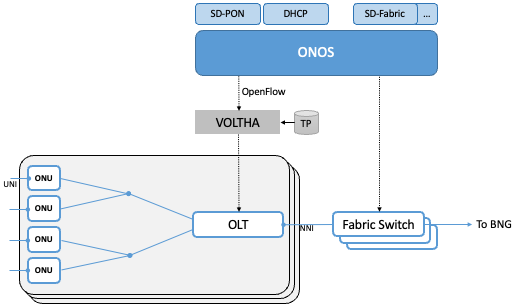
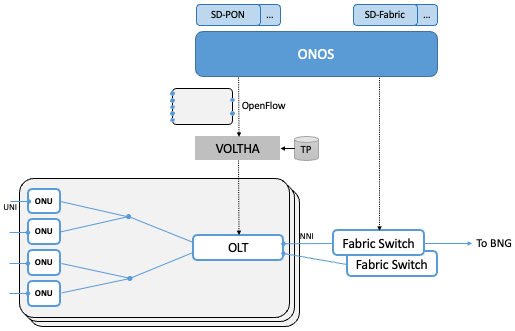
complete draft of SD-PON and SD-RAN

Changed region(s): [[0.0, 0.0, 0.9942, 0.9967], [0.7146, 0.557, 0.7456, 0.6156]]

diff --git a/access.rst b/access.rst
@@ -22,7 +22,7 @@ communication and then incrementally added support for IP-based data
 communication.  The end result is a baroque collection of
 purpose-built devices that look quite unfamiliar to anyone that
 understands how to build a network out of a collection of L2/L3
-ethernet switches.
+Ethernet switches.
 
 But this makes the access network fertile ground for SDN, and the
 introduction of disaggregation, commodity hardware, and cloud-based
@@ -49,14 +49,14 @@ anchored in these facilities.
 Passive Optical Network 
 ~~~~~~~~~~~~~~~~~~~~~~~
 
-A PON is a tree-structured network, with a single point starting in
-one of the ISP's edge sites, and then fanning out to reach up to 1024
-homes. PON gets its name from the fact that the splitters are passive:
-they forward optical signals downstream and upstream without actively
-storing-and-forwarding frames. Framing then happens at the edges, at
-the ISP’s premises in a device called an *Optical Line Terminal*
-(OLT), and at the end-points in individual homes in a device called an
-*Optical Network Unit* (ONU).
+A PON is a tree-structured, fiber-based network, with a single point
+starting in one of the ISP's edge sites, and fanning out to reach up
+to 1024 homes. PON gets its name from the fact that the splitters are
+passive: they forward optical signals downstream and upstream without
+actively storing-and-forwarding frames. Framing then happens at the
+edges, at the ISP’s premises in a device called an *Optical Line
+Terminal* (OLT), and at the end-points in individual homes in a device
+called an *Optical Network Unit* (ONU).
 
 :numref:`Figure %s <fig-pon>` shows an example PON, simplified to
 depict just one ONU and one OLT. In practice, a Central Office would
@@ -65,7 +65,8 @@ include multiple OLTs, fanning out to thousands of customer homes.
 is a *BNG (Broadband Network Gateway)* connecting the access network
 to the Internet. The BNG is a piece of Telco equipment that, in
 addition to forwarding packets, also authenticates users,
-differentiates service, and meters traffic for the sake of billing.
+differentiates the level of service delivered to each customer, and
+meters traffic for the sake of billing.
   
 .. _fig-pon:
 .. figure:: access/Slide1.png
@@ -102,14 +103,14 @@ cellular technologies range from 700-MHz to 2400-MHz, with new
 mid-spectrum allocations now happening at 6-GHz and millimeter-wave
 (mmWave) allocations opening above 24-GHz.
 
-As shown in :numref:`Figure %s <fig-ran>`, the set of base stations
-are connected to each other, and back to the Mobile Core running in
-the Central Office. The Mobile Core is like the BNG in that it is an
-IP gateway connecting the access network to the Internet, as well as
-being responsible for authentication, QoS, and billing. Unlike the
-BNG, Mobile Core has added responsibility of tracking mobility (i.e.,
-recording which base station is currently serving each active device,
-or so-called UE).
+As shown in :numref:`Figure %s <fig-ran>`, the set of base stations in
+a given geographic region (e.g., a metro-area) are connected to each
+other, and back to the Mobile Core running in the Central Office. The
+Mobile Core is like the BNG in that it is an IP gateway connecting the
+access network to the Internet, as well as being responsible for
+authentication, QoS, and billing. Unlike the BNG, the Mobile Core also
+has responsibility for tracking mobility (i.e., recording which base
+station is currently serving each active device, or so-called UE).
 
 .. _fig-ran:
 .. figure:: access/Slide2.png
@@ -123,15 +124,14 @@ The figure shows the Mobile Core and set of base stations
 interconnected by a backhaul network. The technology used to implement
 this backhaul is an implementation choice—e.g., it could be
 ethernet-based or PON-based—but for our purposes, the important point
-is that the RAN is effectively a regional (e.g., metro-area)
-packet-switched network, overlaid on the backhaul, where the base
-stations are the "nodes" of that overlay network. Packets are "routed"
-through this network to reach the best base station(s) to serve each
-UE at a given moment in time.\ [#]_ These forwarding decisions are
-implemented by the base stations, which make decisions about
-*handovers* (one base station handing a given UE's traffic off to
-another) and *link aggregation* (multiple base stations deciding to
-jointly transmit to a given UE).
+is that the RAN is effectively a regional packet-switched network,
+overlaid on the backhaul, where the base stations are the "nodes" of
+that overlay network. Packets are "routed" through this network to
+reach the best base station(s) to serve each UE at a given moment in
+time.\ [#]_ These forwarding decisions are implemented by the base
+stations, which make decisions about *handovers* (one base station
+handing a given UE's traffic off to another) and *link aggregation*
+(multiple base stations deciding to jointly transmit to a given UE).
 
 .. [#] We say quote "routed" because the decision is based on a
        combination of mobility tracking and monitoring how to most
@@ -155,7 +155,8 @@ and RAN, but as we have already seen (briefly) in Section 7.4, SDN can
 also be applied to the BNG and Mobile Core. Both are just enhanced IP
 routers, with the new features implemented as extensions to the P4
 program running in the switching fabric. We return to this topic in
-the last section, where we describe these extensions in more detail.
+the last section, where we describe the interplay between SD-Fabric
+and access networks.
 
 Second, because the PON is passive, there is no opportunity for
 software control *inside* the network. Applying SDN to PON involves
@@ -193,23 +194,34 @@ the following companion book.
 The opportunity for applying SDN to PON hinges on the fact that the
 OLTs that anchor the network's fan-out topology, are essentially
 glorified L2 switches, outfitted with a different MAC-layer framing
-protocol running on each port. And just as it's possible to buy a
-bare-metal L2 switch built to OCP specifications, the same is now true
-for OLTs. But there are three complications that we have to deal with
-before we can realize a Software-Defined PON (SD-PON) in practice.
+protocol running on each switch port. And just as it's possible to buy
+a bare-metal L2 switch built to OCP specifications, the same is now
+true for OLTs. But there are three complications that we have to deal
+with before we can realize a Software-Defined PON (SD-PON) in
+practice.\ [#]_
 
-The first is that a PON requires substantial configurationto be loaded
-into each OLT so it knows what levels of service the network is to
-support. The second is that the ONUs deployed to homes are limited
-devices, controlled indirectly through the upstream OLTs they connect
-to. The third is that network operators don't necessarily have the
-luxury of a clean-slate deployment of only bare-metal hardware, and
-must instead deal with an assortment of legacy devices.
+.. [#] We call this SD-PON to be consistent with how all the other use
+       cases are named in this book, but the actual ONF open source
+       software project is called SEBA: SDN-Enabled Broadband Access.
+
+The first is that a PON requires substantial configuration to be
+loaded into each OLT, primarily so it knows what levels of service the
+network is to support. The second is that the ONUs deployed to homes
+are limited devices, controlled indirectly through the upstream OLTs
+they connect to. The third is that network operators don't necessarily
+have the luxury of a clean-slate deployment of only bare-metal
+hardware, and must instead deal with an assortment of legacy devices.
 
 To address these issues, the SD-PON architecture depicted in
-:numref:`Figure %s <fig-sdpon>` has emerged. Production networks based
-on this design are now being deployed by Telcos throughout the world.
-The following describes the high-points of the architecture.
+:numref:`Figure %s <fig-sdpon>` has emerged.  Production networks
+based on this design are now being deployed by Telcos throughout the
+world.  For simplicity, the figure shows only a single ONT, but it is
+connected to two fabric switches. The fabric is necessary to aggregate
+the set of OLTs that are likely to be deployed in practice, and while
+we postpone the details to Section 9.4, one could imagine these
+switches being under the control of the SD-Fabric application
+described in Chapter 7.  The following describes the high-points of
+the rest of SD-PON architecture.
 
 .. _fig-sdpon:
 .. figure:: access/Slide8.png 
@@ -229,13 +241,16 @@ framework, but VOLTHA was designed to be Network OS agnostic, and so
 replicates much of that machinery.
 
 There are many details VOLTHA must get right, but conceptually there
-is nothing new here, with one major exception: the need to load a
-*Traffic Profile* (denoted *TP* in the diagram). These profiles
-specify the set of QoS classes the operator wants their PON to
-support. This is configuration state, typically loaded when an OLT
-boots, and in principle, this again could have been managed by ONOS
-using gNMI/gNOI.  OLTs do not currently support a common API (like
-gNMI) at the per-device level, so this is handled in a one-off way.
+is nothing new here: control state flows down (e.g., assigning
+subscribers to particular QoS classes) and monitoring state flows up
+(e.g., recognizing when an ONU attaches or detaches).  There is one
+major exception: loading a *Traffic Profile* (denoted *TP* in the
+diagram) into the OLT. These profiles specify the set of QoS classes
+the operator wants their PON to support. This is configuration state,
+typically loaded when an OLT boots, and in principle, this again could
+have been managed by ONOS using gNMI/gNOI.  OLTs do not currently
+support a common API like gNMI at the per-device level, so this is
+handled in a one-off way.
 
 Finally, and most interestingly, because ONOS needs to be aware of the
 ONUs, but they are not directly controllable using OpenFlow or any
@@ -248,8 +263,21 @@ user-facing ports (these are called UNIs in the Telco world). ONOS
 treats this aggregate as a logical switch, so whenever a customer
 powers up the ONU in their home, ONOS will see a "port active" event
 on the corresponding UNI, and take that appropriate actions. These
-actions are implemented by the SD-PON control app shown in the figure.
+actions are implemented by the suite of SD-PON control apps shown in
+the figure.
 
+As for what these actions entail, they primarily correspond to work
+involved in securely connecting a subscriber to the Internet. For
+example, when an ONU comes online (corresponding to a port on the
+logical switch becoming active), an 802.1X authorization sequence is
+initiated, verifying that the ONU is registered to a known customer.
+One outcome of a successful authorization is that the SD-PON
+application instructs ONOS to set up a path though the fabric (with
+the prescribed QoS profile) connecting that subscriber to the L2
+network. Typically, a home router connected to the ONU will then send
+a DHCP request, both triggering an IP address assignment and causing
+ONOS to set up a route through the fabric connecting that home router
+to the upstream BNG (and hence, the rest of the Internet).
 
 9.3 SD-RAN
 -------------
@@ -428,7 +456,7 @@ ONOS for the SD-RAN use case.
     :width: 400px
     :align: center
 
-    3GPP-compliant RAN Intelligent Controller (RIC) built by adapting
+    O-RAN compliant RAN Intelligent Controller (RIC) built by adapting
     and extending ONOS.
 
 Most notably, the ONOS-based RIC supports a set of RAN-specific north-
@@ -444,19 +472,23 @@ OpenFlow). We discuss these interfaces in the next subsection.
    operators defining an SDN-based implementation strategy for 5G.
 
    If you are wondering why there is an O-RAN Alliance in the first
-   place, given that 3GPP is already the standardization body responsible
-   for interoperability across the global cellular network.  The answer
-   is that over time 3GPP has become a vendor-dominated organization,
-   whereas O-RAN was created more recently by network operators. (AT&T
-   and China Mobile were the founding members.) O-RAN’s goal is to
-   catalyze a software-based implementation that breaks the vendor
-   lock-in that dominates today’s marketplace. The E2 interface in
-   particular, which is architected around the idea of supporting
-   different Service Models, is central to this strategy. Whether the
-   operators will be successful in their ultimate goal is yet to be
-   seen.
+   place, given that 3GPP is already the standardization body
+   responsible for interoperability across the global cellular
+   network, the answer is that over time 3GPP has become a
+   vendor-dominated organization. O-RAN was created more recently by
+   network operators (AT&T and China Mobile were the founding
+   members), with the goal of catalyzing a software-based
+   implementation that breaks the vendor lock-in dominating today’s
+   marketplace.
 
-As for the core, ONOS-based RIC takes advantage of the Topology
+   To be more specific, 3GPP defined the possible RAN split points,
+   and O-RAN is specifying (and codifying) the corresponding
+   interfaces.  The E2 interface in particular, which is architected
+   around the idea of supporting different Service Models, is central
+   to this strategy.  Whether the operators will be successful in
+   their ultimate goal is yet to be seen.
+
+As for the core, the ONOS-based RIC takes advantage of the Topology
 Service (among others) described in Chapter 6, but it also introduces
 two new services: *Control* and *Telemetry*. The Control Service,
 which builds on the Atomix key/value store, manages the control state
@@ -483,10 +515,12 @@ RIC Interfaces
 
 Returning to the three interfaces called out in :numref:`Figure %s
 <fig-ric>`, each serves a purpose similar to the interfaces described
-in earlier chapters. The first two, **A1** and **E2**, are
-3GPP-defined. The third, denoted **xApp SDK** in :numref:`Figure %s
-<fig-ric>`, is specific to the ONOS-based implementation (and similar
-in spirit to Flow Objectives).
+in earlier chapters. The first two, **A1** and **E2**, are well on
+their way to being standardized by O-RAN. The third, denoted **xApp
+SDK** in :numref:`Figure %s <fig-ric>`, is specific to the ONOS-based
+implementation (and similar in spirit to Flow Objectives), although
+the O-RAN has a long-term goal of converging on a unified API (and
+corresponding SDK).
 
 The A1 interface provides a means for the mobile operator's
 management plane—typically called the *OSS/BSS (Operations Support
@@ -497,15 +531,16 @@ stack. It is the source of all configuration settings and business
 logic needed to operate a network. You can think of it as the RAN
 counterpart to gNMI/gNOI.
 
-The E2 interface that the Near-RT RIC uses to control the underlying
-RAN elements. You can think of it as the RAN counterpart to
-OpenFlow. A requirement of the E2 interface is that it be able to
-connect the Near-RT RIC to different types of RAN elements. This range
-is reflected in the API, which revolves around a *Service Model*
-abstraction. The idea is that each RAN element advertises a Service
-Model, which effectively defines the set of RAN Functions the element
-is able to support. The RIC then issues a combination of the following
-four operations against this Service Model.
+The Near-RT RIC uses the E2 interface to control the underlying RAN
+elements, including the CU, DUs, and RUs. You can think of it as the
+RAN counterpart to OpenFlow. A requirement of the E2 interface is that
+it be able to connect the Near-RT RIC to different types of RAN
+elements from different vendors. This range is reflected in the API,
+which revolves around a *Service Model* abstraction. The idea is that
+each RAN element advertises a Service Model, which effectively defines
+the set of RAN Functions the element is able to support. The RIC then
+issues a combination of the following four operations against this
+Service Model.
 
 * **Report:** RIC asks the element to report a function-specific value setting.
 * **Insert:** RIC instructs the element to activate a user plane function.
@@ -526,15 +561,7 @@ of the RAN pipeline. The two outer control loops have rough time
 bounds of >>1sec and >10ms, respectively, and the real-time control
 loop is assumed to be <1ms.
 
-This raises the question of how specific functionality is distributed
-between the Non-RT RIC, Near-RT RIC, and DU. Starting with the second
-pair (i.e., the two inner loops), it is important to recognize that
-not all RRM functions can be centralized. After horizontal and
-vertical CUPS disaggregation, the RRM functions are split between CU-C
-and DU. For this reason, the SDN-based vertical disaggregation focuses
-on centralizing CU-C-side RRM functions in the Near-RT RIC.
-
-Turning to the outer two control loops, the Near RT-RIC opens the
+Focusing on the outer two control loops, the Near RT-RIC opens the
 possibility of introducing policy-based RAN control, whereby
 interrupts (exceptions) to operator-defined policies would signal the
 need for the outer loop to become involved. For example, one can
@@ -547,7 +574,7 @@ Near RT-RIC over the A1 interface.
 
 Finally, the xApp SDK, which in principle is the RAN counterpart of
 Flow Objectives, is specific to the ONOS-based implementation. It is
-currently little more than a "pass through" of the E1 interface, which
+currently little more than a "pass through" of the E2 interface, which
 implies the xApps must be aware of the available Service Models. This
 is problematic in that it implicitly couples applications with
 devices, but defining a device-agnostic version is still a
